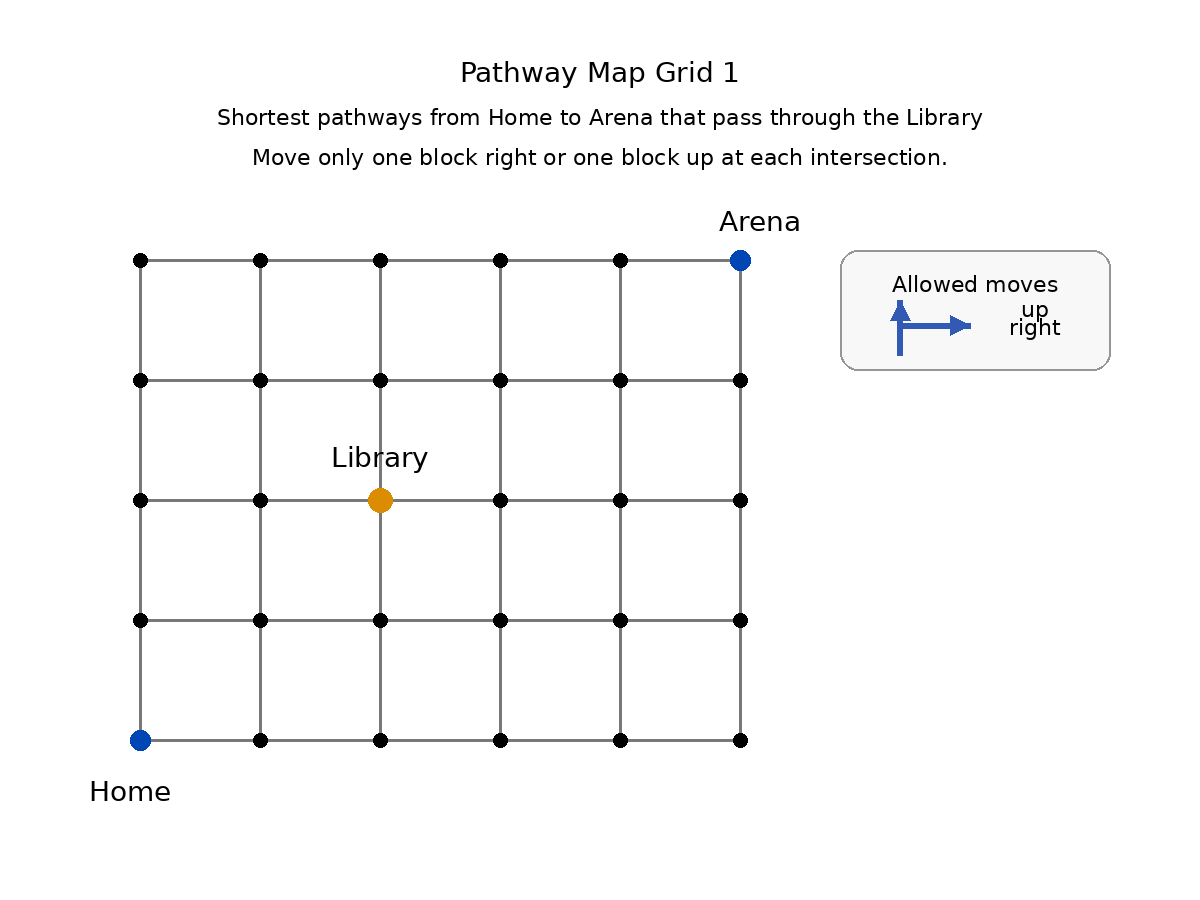
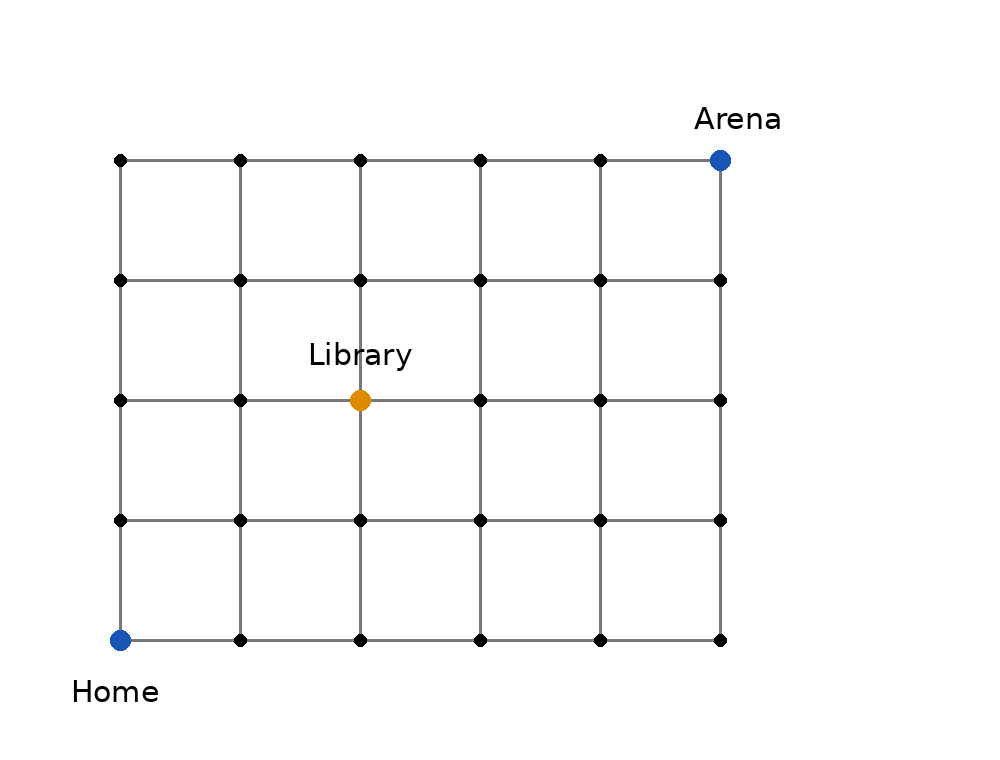
Refine Pascal pathway QODs

diff --git a/content/Math/Combinatorics/Pascal's Triangle - Map Pathways 2.md b/content/Math/Combinatorics/Pascal's Triangle - Map Pathways 2.md
@@ -19,59 +19,32 @@ Using **Pascal's Triangle**, determine the number of distinct shortest pathways 
 
 > [!example]- Show solution
 >
-> First count **all** shortest pathways from the Bus Terminal to the Museum.
+> Fill the junctions using Pascal's Triangle: each interior number is the sum of the number directly to the **left** and the number directly **below** it.
 >
-> The trip requires $10$ moves:
+> First count **all** shortest pathways from the Bus Terminal to each junction.
 >
-> - $6$ blocks right
-> - $4$ blocks up
+> ![[Pascal Pathway Solution Map 2A.png]]
 >
-> Row $10$ of Pascal's Triangle is
+> The number at the **Museum** is $210$, so there are $210$ shortest pathways altogether.
 >
-> $$
-> 1,\ 10,\ 45,\ 120,\ 210,\ 252,\ 210,\ 120,\ 45,\ 10,\ 1.
-> $$
+> The number at the **Road Closure** is $10$, so there are $10$ shortest pathways from the Bus Terminal to the Road Closure.
 >
-> The entry corresponding to choosing $4$ of the $10$ moves to be upward moves is
+> Now count the number of shortest pathways from the **Road Closure** to each junction on the smaller grid leading to the Museum.
 >
-> $$
-> 210.
-> $$
+> ![[Pascal Pathway Solution Map 2B.png]]
 >
-> Therefore, there are $210$ shortest pathways altogether.
+> The number at the **Museum** on this smaller grid is $10$, so there are $10$ shortest pathways from the Road Closure to the Museum.
 >
-> Next count the pathways that pass through the **Road Closure**.
->
-> From the Bus Terminal to the Road Closure requires $5$ moves:
->
-> - $3$ blocks right
-> - $2$ blocks up
->
-> Row $5$ of Pascal's Triangle is
+> Therefore, the number of shortest pathways that pass through the Road Closure is
 >
 > $$
-> 1,\ 5,\ 10,\ 10,\ 5,\ 1,
-> $$
->
-> so there are $10$ shortest pathways to the Road Closure.
->
-> From the Road Closure to the Museum also requires $5$ moves:
->
-> - $3$ blocks right
-> - $2$ blocks up
->
-> Therefore, there are also $10$ shortest pathways for this part of the trip.
->
-> The number of shortest pathways that pass through the Road Closure is
->
-> $$
-> 10(10)=100.
+> 10 \times 10 = 100.
 > $$
 >
 > Subtract these from the total:
 >
 > $$
-> 210-100=oxed{110}.
+> 210 - 100 = \boxed{110}.
 > $$
 
 > [!abstract] Review First

diff --git a/content/Math/Combinatorics/Pascal's Triangle - Map Pathways 1.md b/content/Math/Combinatorics/Pascal's Triangle - Map Pathways 1.md
@@ -19,48 +19,24 @@ Using **Pascal's Triangle**, determine the number of distinct shortest pathways 
 
 > [!example]- Show solution
 >
-> Count the trip in two sections.
+> Fill the junctions using Pascal's Triangle: each interior number is the sum of the number directly to the **left** and the number directly **below** it.
 >
-> From **Home to the Library**, the cyclist must make $4$ moves:
+> First count the number of shortest pathways from **Home** to each junction.
 >
-> - $2$ blocks right
-> - $2$ blocks up
+> ![[Pascal Pathway Solution Map 1A.png]]
 >
-> Row $4$ of Pascal's Triangle is
+> The number at the **Library** is $6$, so there are $6$ shortest pathways from Home to the Library.
 >
-> $$
-> 1,\ 4,\ 6,\ 4,\ 1.
-> $$
+> Next count the number of shortest pathways from the **Library** to each junction on the smaller grid leading to the Arena.
 >
-> The entry corresponding to choosing $2$ of the $4$ moves to be upward moves is
+> ![[Pascal Pathway Solution Map 1B.png]]
 >
-> $$
-> 6.
-> $$
->
-> Therefore, there are $6$ shortest pathways from Home to the Library.
->
-> From the **Library to the Arena**, the cyclist must make $5$ moves:
->
-> - $3$ blocks right
-> - $2$ blocks up
->
-> Row $5$ of Pascal's Triangle is
->
-> $$
-> 1,\ 5,\ 10,\ 10,\ 5,\ 1.
-> $$
->
-> The entry corresponding to choosing $2$ of the $5$ moves to be upward moves is
->
-> $$
-> 10.
-> $$
+> The number at the **Arena** on this smaller grid is $10$, so there are $10$ shortest pathways from the Library to the Arena.
 >
 > Therefore,
 >
 > $$
-> 6(10)=oxed{60}.
+> 6 \times 10 = \boxed{60}.
 > $$
 
 > [!abstract] Review First
